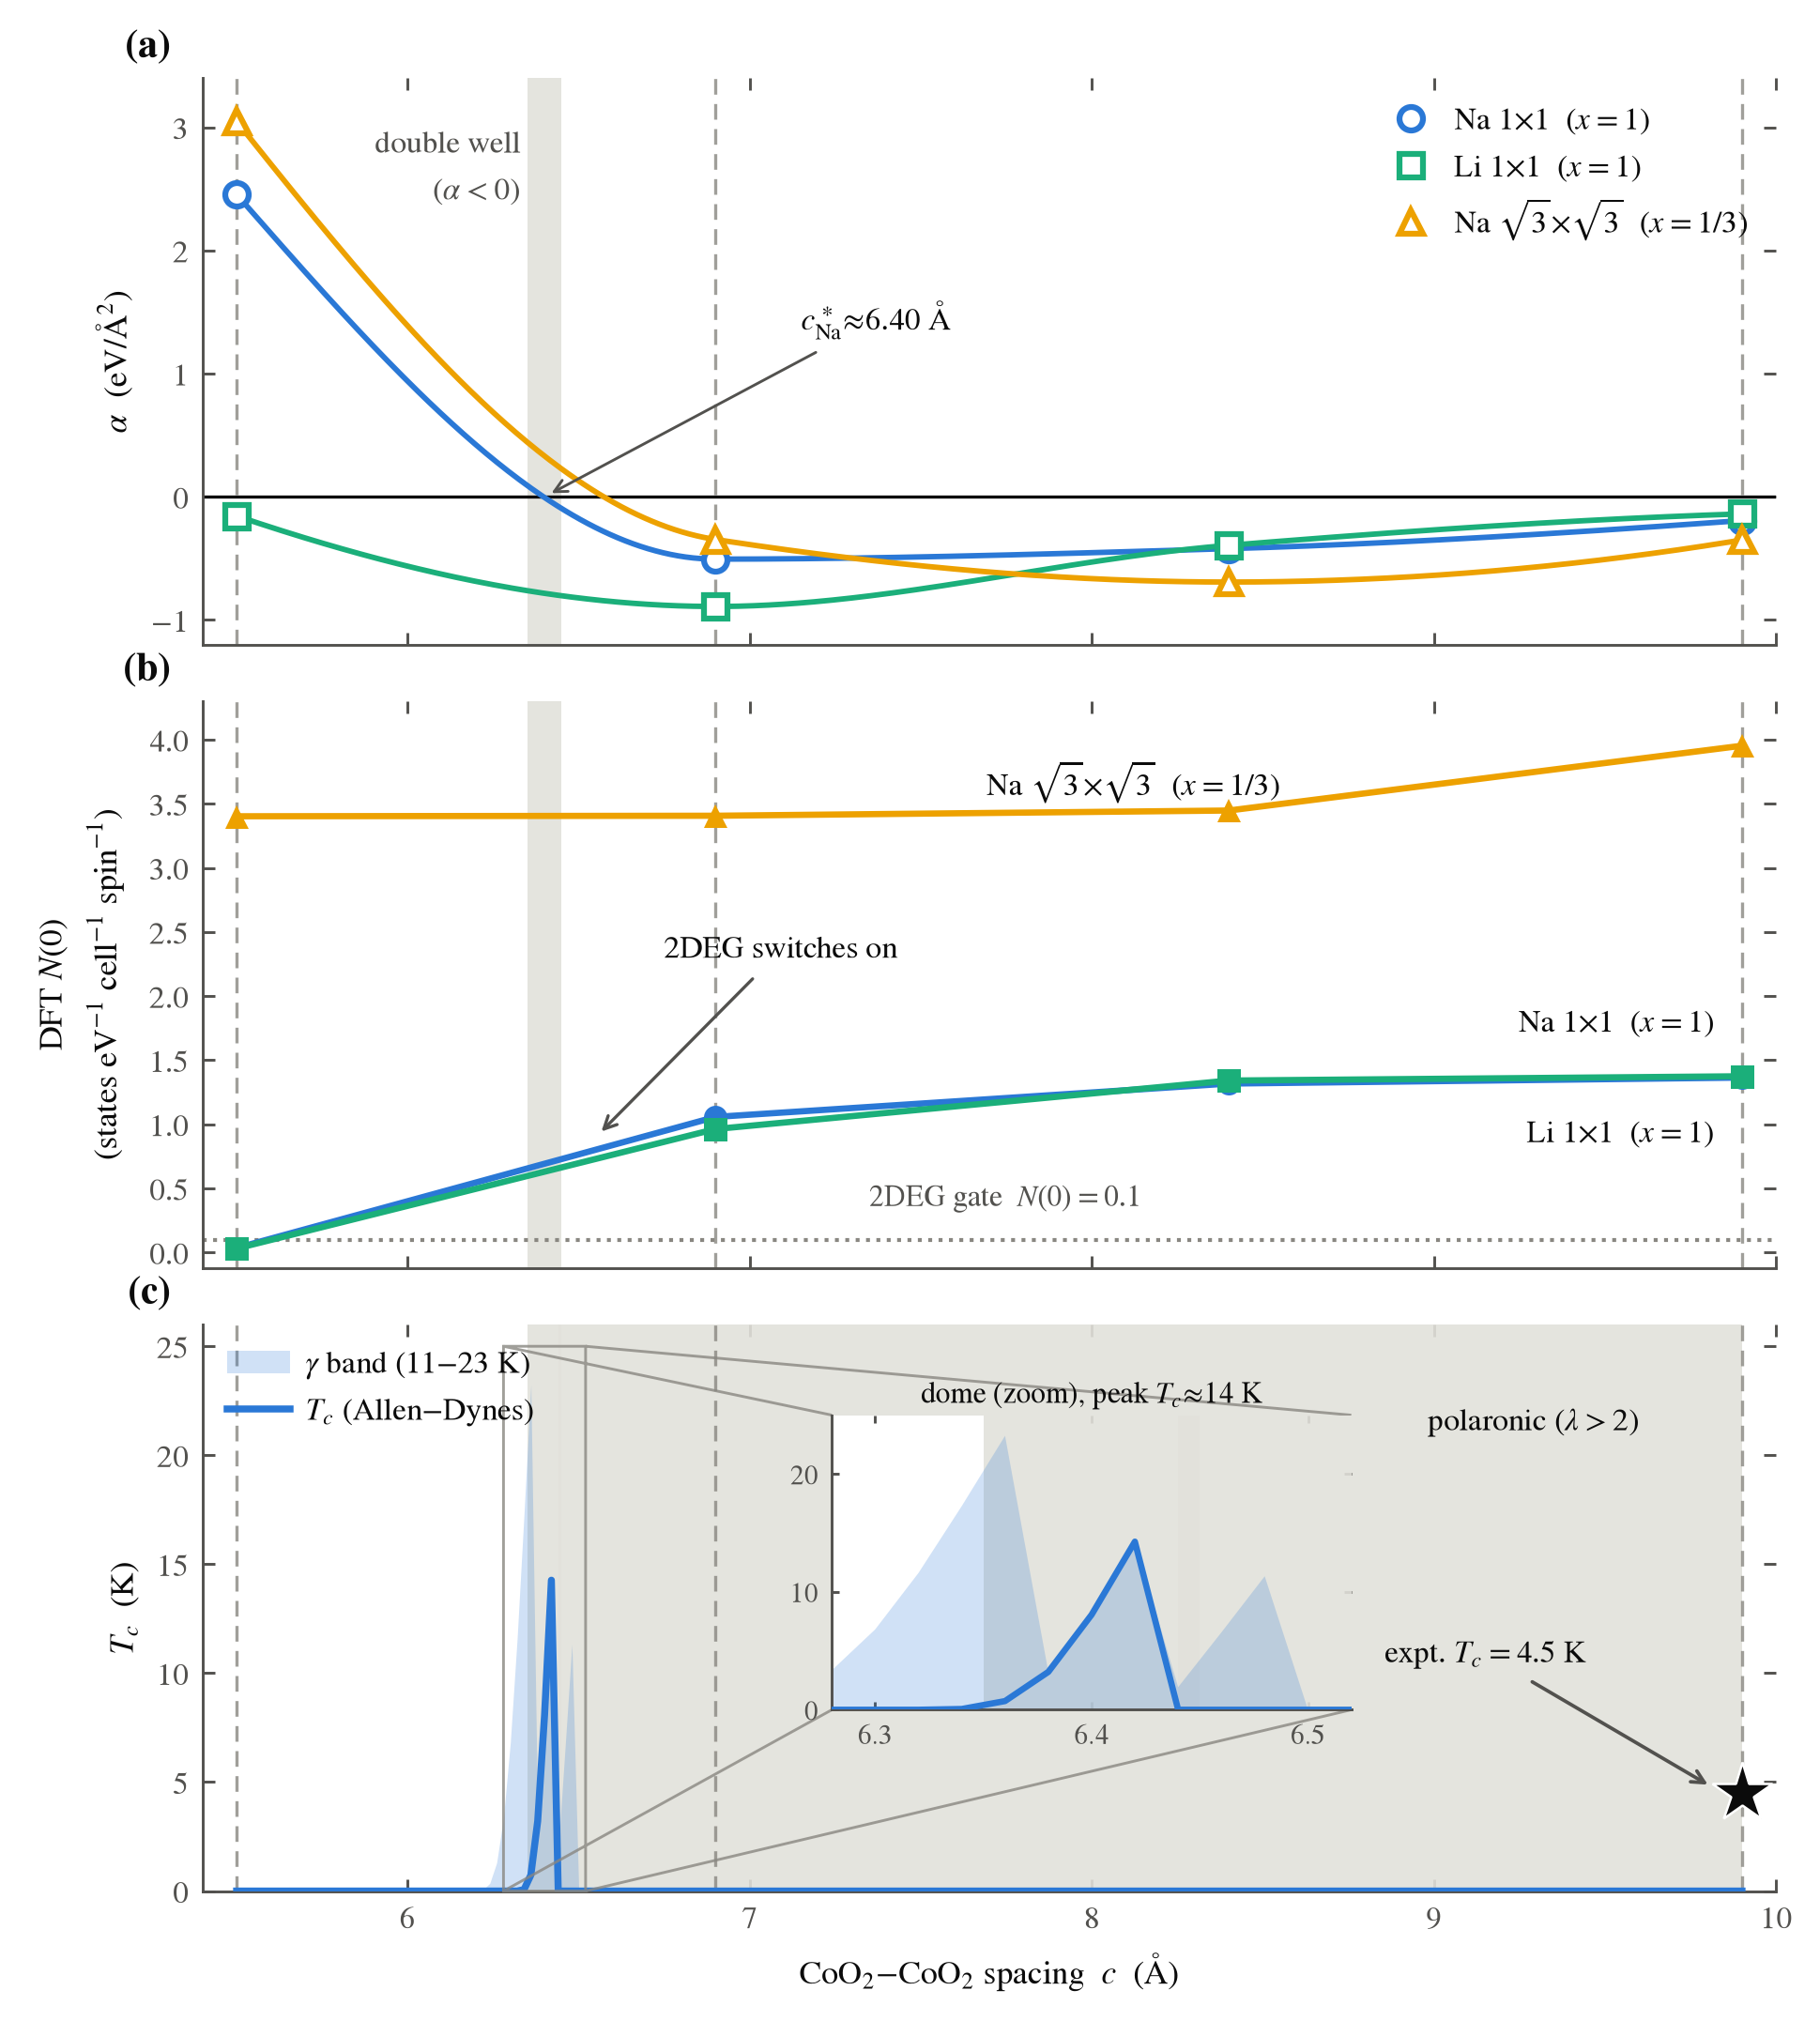
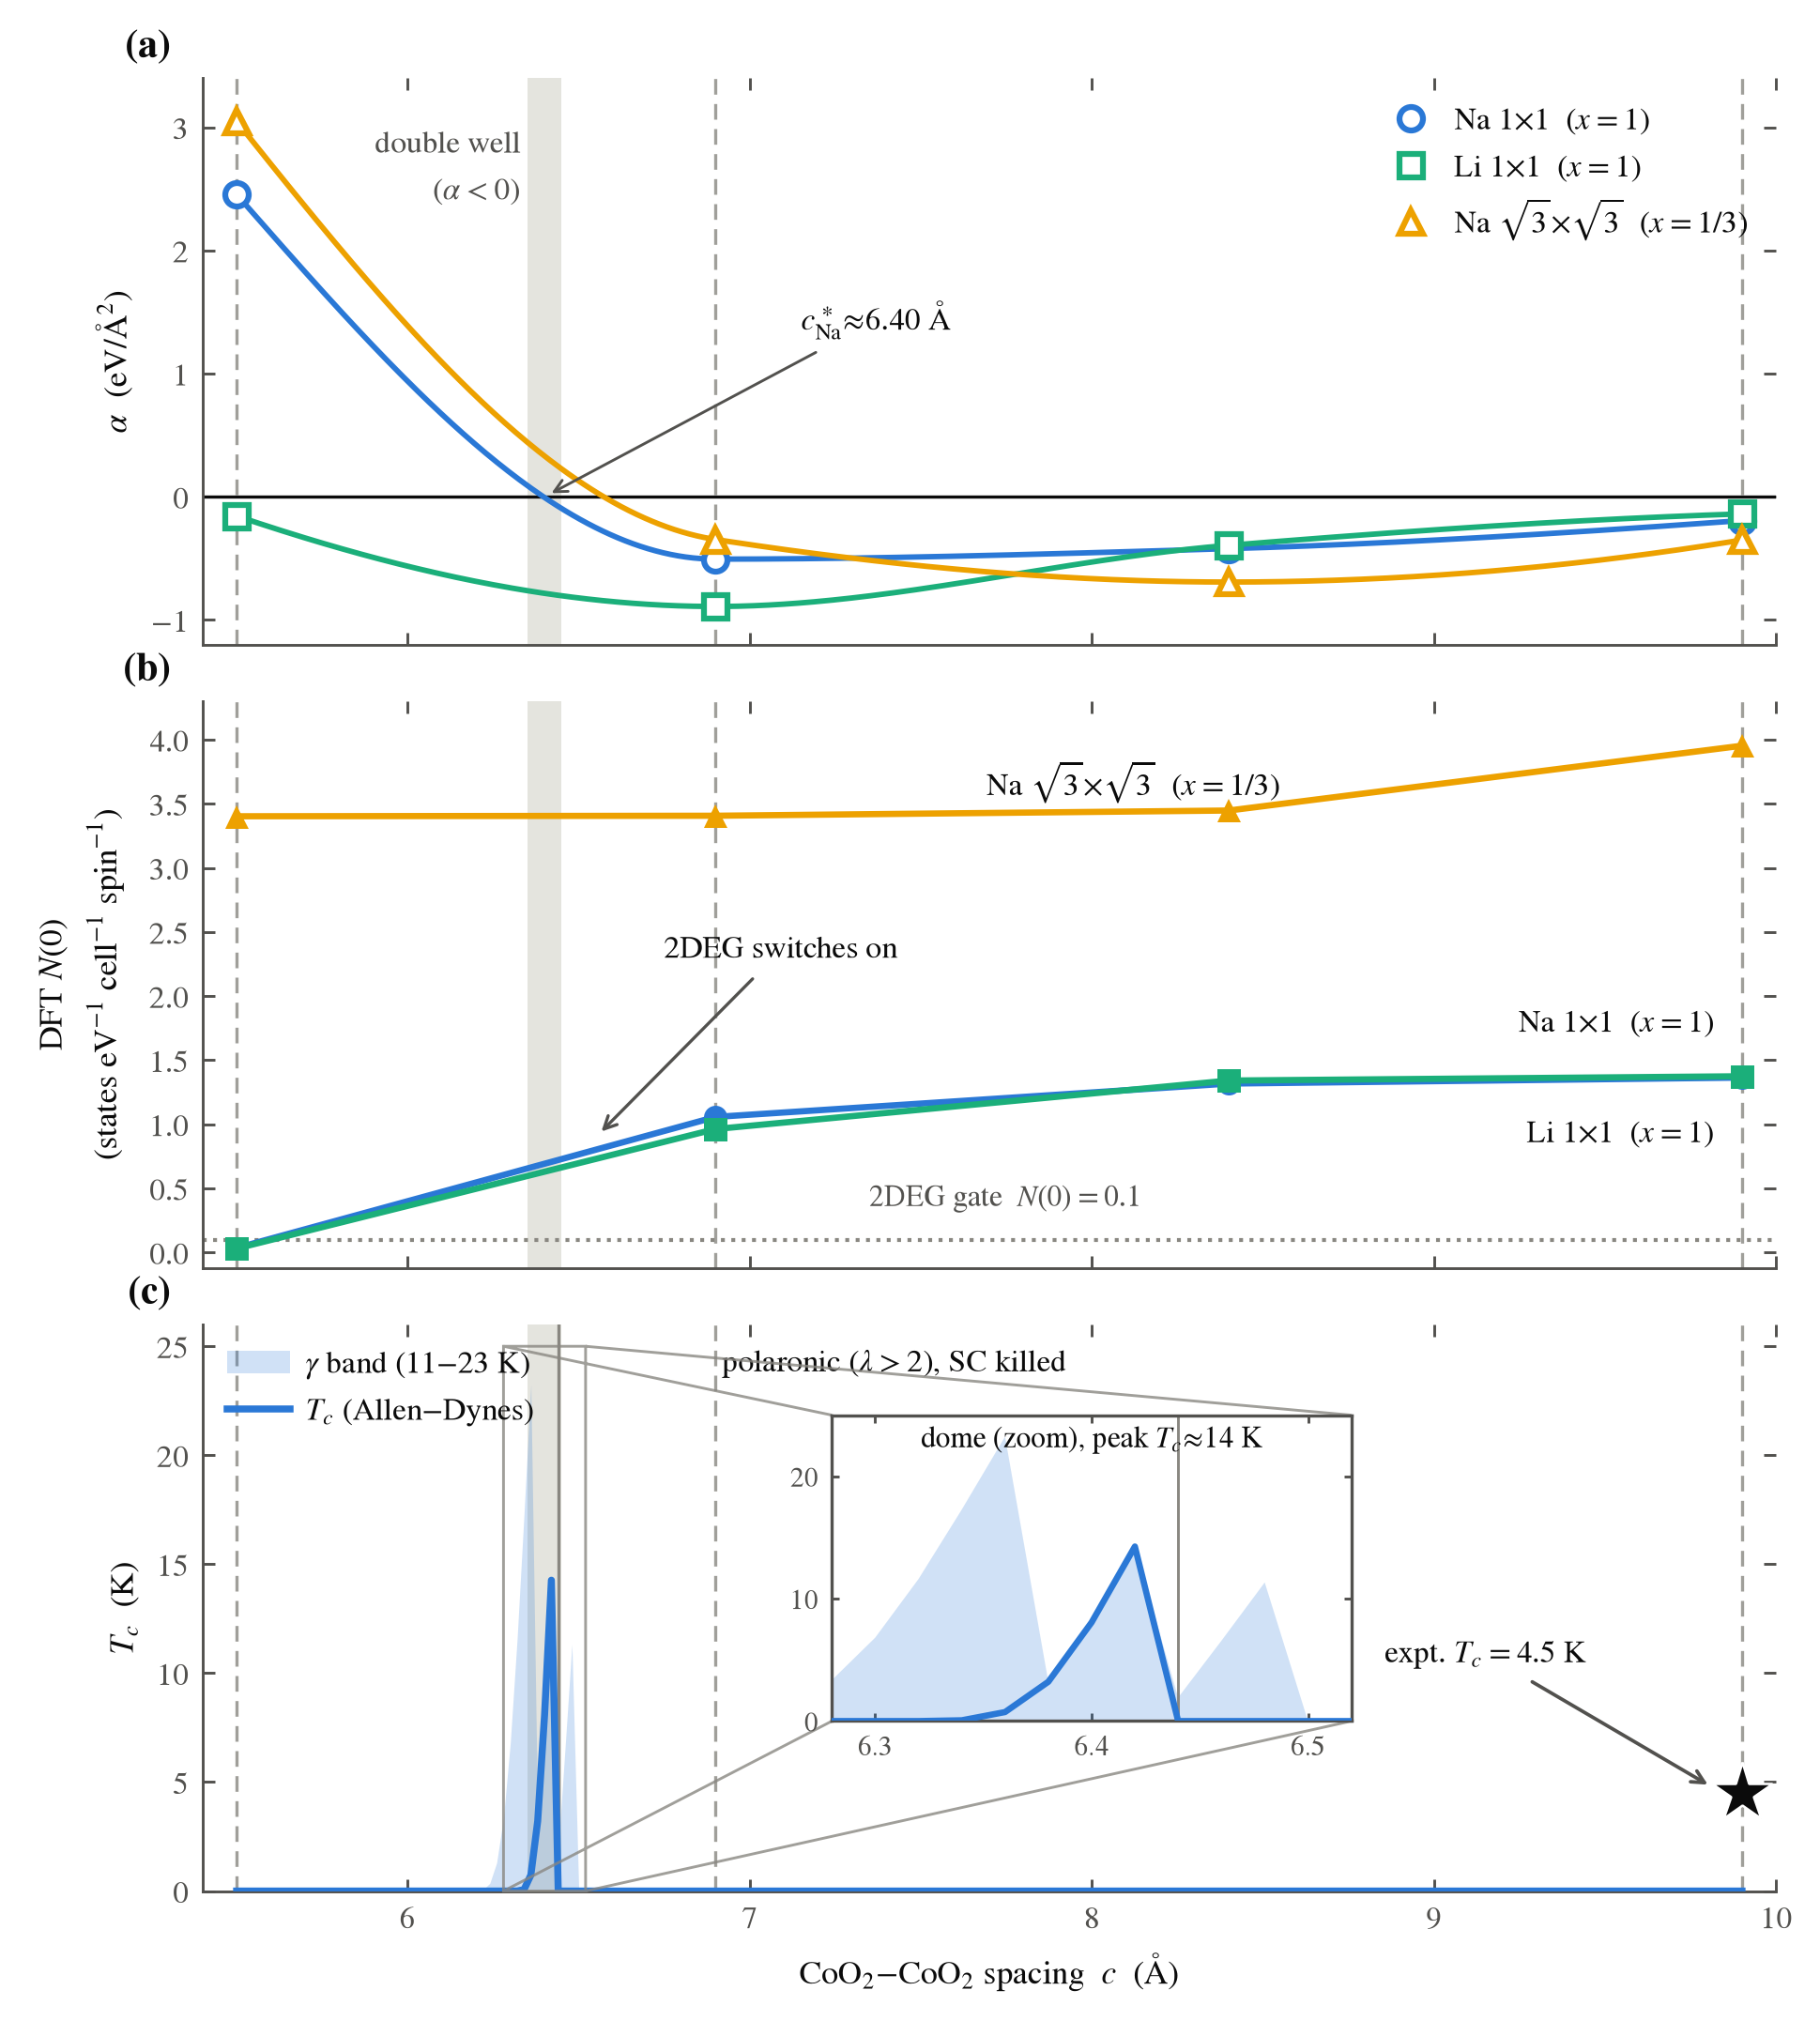
figure polish: clean white panels, opaque framed insets, no occlusion; captions updated

Changed region(s): [[0.3094, 0.6535, 0.9593, 0.9336]]

diff --git a/paper/main.tex b/paper/main.tex
@@ -201,8 +201,9 @@ does not; the single-to-double-well flip survives every check we ran.
   one state per {eV} at the same spacing---the interlayer electron gas switching on.
   (c)~The Allen--Dynes superconducting temperature: a narrow dome pinned just above
   $c^{\ast}$, with the shaded band spanning the electron--phonon coupling ansatz ($11$--$23$~K)
-  and the grey region (right of the dome) where the coupling exceeds the polaron limit and
-  superconductivity is killed. The experimental anchors are the thin dashed verticals at
+  and the thin vertical line at the $\lambda=2$ crossing marking the polaron wall---everywhere
+  to its right the coupling exceeds the polaron limit and superconductivity is killed. The
+  inset magnifies the narrow dome. The experimental anchors are the thin dashed verticals at
   $5.5$, $6.9$ and $9.9$~\AA: the dry parent and monolayer hydrate (not superconducting) fall on
   the walls, and the bilayer hydrate (star, $T_c=4.5$~K) does not sit in the static
   window---the difficulty of Sec.~\ref{sec:difficulty}, resolved there by water re-binding the
@@ -215,8 +216,8 @@ does not; the single-to-double-well flip survives every check we ran.
 \label{sec:model}
 % ===========================================================================
 
-Now we make the mechanism quantitative, and it is worth saying first what is borrowed and
-what is done here. The band structure is borrowed: the {SSH}-type four-band tight-binding
+Now we make the mechanism quantitative. We separate first what is borrowed from what is
+done here. The band structure is borrowed: the {SSH}-type four-band tight-binding
 model of Radha and Lambrecht~\cite{RadhaLambrecht2021} describes the two surface bands---one
 of alkali {$sp_z$} character sitting in the gallery, one of {CoO$_2$} character---that share a
 single electron according to how their centres are split. The splitting is set by the {Bader}
@@ -249,8 +250,9 @@ $\hbar\Omega = E_2-E_0$. The dimensionless coupling is then
 \end{equation}
 with $N(0)$ taken from the density-functional calculation, not fit.
 
-The window has two walls, and each is a sentence. Close the gallery below $c^{\ast}$ and
-$N(0)\to0$: there are no carriers, so $\lambda\to0$ and there is nothing to pair. Open it too
+The window has two walls, and the physics of each is simple. Close the gallery below
+$c^{\ast}$ and $N(0)\to0$: there are no carriers, so $\lambda\to0$ and there is nothing to
+pair. Open it too
 far, or cool the sodium into one well, and the ion freezes off-centre while $\hbar\Omega$
 stays near $20$~meV; the coupling then runs up past $\lambda\approx20$, which is not strong
 superconductivity but a self-trapped polaron, and the pairing is killed. Between the two the
@@ -302,11 +304,20 @@ sliding toward a bound site against one {CoO$_2$} sheet. The curvature at the mi
 negative, $V''(0)<0$: the centred ion is not the bottom of a soft well but the top of an
 instability, an imaginary-frequency mode ($\lvert\hbar\omega\rvert\approx11i$~meV) that runs
 downhill into chemisorption. The static picture puts the one superconducting compound in the
-dead polaronic regime. This is not our artifact; it is the mechanical form of the long-standing
-result that hydration does nothing to the electronic structure beyond
-expansion~\cite{JohannesSingh2004,MarianettiKotliarCeder2004,Arita2005}. A bare expanded
-gallery is a disaster for the sodium. The cause, we will show, is that the calculation holds
-the water still, and the water does not hold still~\cite{Jalarvo2008,Lynn2003}.
+dead polaronic regime. This is not our artifact; it is the mechanical face of a result the
+electronic-structure literature settled long ago. The earliest water-inclusive calculation
+already found that hydration only makes the bands more
+two-dimensional~\cite{MarianettiKotliarCeder2004}; Johannes and Singh put the negative
+statement sharpest, that intercalated water has ``little effect $\ldots$ outside of the
+predictable effects of expansion''~\cite{JohannesSingh2004}, and the same holds for the
+mono- and bilayer hydrates alike~\cite{Arita2005}. That static null result is the foil this
+calculation answers: a bare expanded gallery is a disaster for the sodium. The cause, we will
+show, is that these calculations hold the water still, and the water does not hold
+still~\cite{Jalarvo2008}. The one earlier hint that the water's \emph{motion}, and not its
+static presence, might matter came in a single sentence of Lynn and co-workers, who
+noted---by analogy to {MgB$_2$}---that anharmonic motion of the hydrogen and oxygen ions
+might enhance the superconductivity~\cite{Lynn2003}; it was never developed into a mechanism,
+and developing it is the business of this paper.
 
 So we put the water in. We built the bilayer solvation cage that neutron
 diffraction~\cite{Jorgensen2003,Lynn2003} places around the sodium---four rigid gas-phase
@@ -376,11 +387,9 @@ dynamical one.
 \label{sec:consequences}
 % ===========================================================================
 
-A mechanism is worth only what it forbids and predicts. Table~\ref{tab:score} lays the
-picture against the experimental record fact by fact; here we take the consequences one at a
-time.
+Table~\ref{tab:score} lays the picture against the experimental record fact by fact. Here we
+take the consequences one at a time, and each is written so that it can fail.
 
-\paragraph{Why lithium never superconducts.}
 Lithium cobaltate is the same structure with a smaller ion, and it has never been made to
 superconduct. Our picture requires it. Two things go against lithium at once. Its well crosses
 into the double-well regime only at the smallest spacing in our dataset, so we have only an
@@ -391,7 +400,7 @@ paraelectric, dynamically centred despite the negative $\alpha$, and a centred i
 ion with no soft anharmonic mode to offer. Lithium fails on the glue, and it fails for the
 plain reason that it is light.
 
-\paragraph{The magnetic strip and the {NMR} contradiction.}
+The gas brings a magnetic phase with it, and that phase settles an old contradiction.
 Right where the gas first condenses, the gallery band is narrow and its density of states is
 high, and a narrow band with a high density of states is a {Stoner} magnet. The
 Radha--Lambrecht surface calculation already finds this polarized gallery
@@ -410,7 +419,6 @@ Johannes~\cite{MazinJohannes2005} are consistent with the muon null~\cite{Higemo
 we do not need the chiral $d+id$ scenario~\cite{Kiesel2013} to fit the record, though our data
 do not exclude it.
 
-\paragraph{Spin--orbit coupling.}
 One might worry that spin--orbit coupling selects or mixes the pairing. It does not, at any
 level that matters here. The gallery state is sodium-derived, with only a few percent cobalt
 weight, so its effective on-band spin--orbit scale is a couple of {meV}; the {Rashba}
@@ -420,7 +428,8 @@ the gap it induces is at the sub-percent level. On the average centrosymmetric s
 up and down sectors carry opposite {Rashba} fields and largely cancel. Spin--orbit coupling
 is a small correction to the spin response, not a term in the pairing.
 
-\paragraph{A probe-dependent valence.}
+The gallery gas leaves a fingerprint on the sodium valence that two kinds of probe should
+read differently.
 If the sodium keeps a fraction $q$ of its electron in the gallery rather than giving it to
 the cobalt, then a site-specific valence probe---the cobalt {$L$}-edge or {NQR}---and a
 charge-counting probe---redox titration of the whole crystal---should disagree, and only when
@@ -433,9 +442,8 @@ the large valence offset seen in these materials~\cite{Milne2004}, which needs a
 reservoir such as oxonium and is several times larger; ours is the small, gallery-specific piece
 alone.
 
-\paragraph{Related systems: three tests we have run, one we have not.}
-The picture points beyond this one compound, and three of its predictions we have now put to
-the calculation.
+The picture points beyond this one compound. Three of its predictions we have now put to the
+calculation, and a fourth we leave for later.
 \emph{Gating.} A {LiCoO$_2$} thin film in which the carrier density is set electrostatically
 rather than chemically should show the gallery turn-on without the disadvantage of the light
 frozen ion. We added carriers to the anhydrous ($5.5$~\AA) lithium cell by a compensating
@@ -459,10 +467,7 @@ are the {Co}\,$3d$--{Se}\,$4p$ network, and the ionic sodium of its {Na$_2$O} ga
 above the Fermi level, with no sodium-derived band there. {Na$_2$CoSe$_2$O} superconducts
 through its cobalt network, not the gallery, and is a clean negative control: same {CoO$_2$}-like
 sheet, no gallery gas, superconductivity by another route.
-Finally, the layered nitride superconductor {Li$_x$ZrNCl} deserves re-analysis in the same
-language, as a gallery whose carrier density and interlayer mode may be doing together what they
-do here; that one we label a prediction, not yet computed. Each is one experiment, and each is
-stated so it can fail.
+Each is one experiment, and each is stated so it can fail.
 
 % ---- FIG 4: spin ----
 \begin{figure}[t]

diff --git a/paper/figures/fig2.py b/paper/figures/fig2.py
@@ -26,7 +26,8 @@ CG = np.linspace(5.5, 9.9, 400)
 
 # Aesthetic-sobriety palette: colour only on the data series (curves/markers);
 # every decorative element is neutral grey/black.
-C_SHADE = "#e2e1db"              # light-grey fill (SC window, polaronic zone)
+C_SHADE = "#e2e1db"              # light-grey fill (narrow SC-window band)
+C_SHADE_LT = "#f1f0eb"           # very light grey (large polaronic region)
 C_ANN = S.C_INK                  # annotation text: black
 C_ANN2 = S.C_SEC                 # secondary annotation text: ~40% grey
 
@@ -106,11 +107,13 @@ def draw_dome(ax, lw_line=1.8, band_lab=None, line_lab=None):
 
 draw_dome(axC, band_lab=r"$\gamma$ band (11$-$23 K)",
           line_lab=r"$T_c$ (Allen$-$Dynes)")
-# polaronic region: lambda > 2 -> SC killed  (neutral light-grey fill)
-axC.axvspan(LAM_C, 9.9, facecolor=C_SHADE, edgecolor="none", alpha=0.9,
-            zorder=1)
-axC.text(9.6, 21.5, r"polaronic ($\lambda>2$)",
-         ha="right", va="center", fontsize=8, color=C_ANN)
+# polaronic wall: lambda > 2 -> SC killed. No area fill (a fill covering
+# three-quarters of the panel reads as a bad background, not a region); the
+# wall is a thin grey boundary line at the lambda=2 crossing, labelled in
+# clear space above the inset.
+axC.axvline(LAM_C, color=S.C_MUT, lw=0.8, zorder=1)
+axC.text(6.92, 24.2, r"polaronic ($\lambda>2$), SC killed", fontsize=8,
+         color=C_ANN, ha="left", va="center")
 shade_window(axC)
 anchors(axC, star=True)
 # experimental SC anchor: distinct star marker at 9.9 A, Tc = 4.5 K (black)
@@ -128,22 +131,28 @@ S.panel_label(axC, "c")
 
 # --- zoom inset: the narrow SC dome is otherwise a hairline ---
 # placed over the (data-free) polaronic dead zone, right of the real dome
-# spike, with an opaque white background so the hatch never shows through.
-axz = axC.inset_axes([0.40, 0.32, 0.33, 0.52])
+# spike. Clean-inset rules: fully opaque white background, a complete square
+# frame on all four sides, drawn ABOVE the panel shading, and NO internal
+# shading (the parent's grey bands would only clutter the zoom); the lambda=2
+# wall is a single thin grey line, as in the parent.
+axz = axC.inset_axes([0.40, 0.30, 0.33, 0.54])
 axz.set_facecolor("white")
-axz.set_zorder(5)
+axz.set_zorder(6)
 axz.patch.set_alpha(1.0)
 draw_dome(axz, lw_line=1.6)
-axz.axvspan(LAM_C, 6.6, facecolor=C_SHADE, edgecolor="none", alpha=0.9)
-axz.axvspan(SC_LO, SC_HI, color=C_SHADE, alpha=0.9, lw=0)
+axz.axvline(LAM_C, color=S.C_MUT, lw=0.7)
 axz.set_xlim(6.28, 6.52)
 axz.set_ylim(0, 25)
-axz.set_title(r"dome (zoom), peak $T_c\!\approx\!14$ K", fontsize=7.5, pad=3)
+axz.text(0.5, 0.965, r"dome (zoom), peak $T_c\!\approx\!14$ K",
+         transform=axz.transAxes, ha="center", va="top", fontsize=7.5,
+         color=C_ANN)
 axz.tick_params(labelsize=7, length=2)
 axz.set_xticks([6.3, 6.4, 6.5])
 axz.set_yticks([0, 10, 20])
-for s in ("top", "right"):
-    axz.spines[s].set_visible(False)
+for s in axz.spines.values():           # full square border
+    s.set_visible(True)
+    s.set_color(S.C_SEC)
+    s.set_linewidth(0.8)
 axC.indicate_inset_zoom(axz, edgecolor=S.C_MUT, lw=0.7, alpha=0.8)
 
 for ax in axes:

diff --git a/paper/figures/fig5.py b/paper/figures/fig5.py
@@ -20,8 +20,9 @@ fits = S.load_well_fits()
 
 fig, ax = plt.subplots(figsize=(3.4, 3.5))
 
-# quantum-paraelectric (soft-mode) window: omega < 1 meV  (neutral shading)
-ax.axhspan(1e-3, 1.0, color="#e2e1db", alpha=0.9, lw=0, zorder=0)
+# quantum-paraelectric (soft-mode) window: omega < 1 meV  (very light neutral
+# shading with a thin dashed boundary line)
+ax.axhspan(1e-3, 1.0, color="#f1f0eb", lw=0, zorder=0)
 ax.axhline(1.0, color=S.C_MUT, lw=0.7, ls=(0, (4, 3)), alpha=0.8, zorder=1)
 ax.text(5.42, 0.0068, "quantum-paraelectric\n(soft-mode) window", ha="left",
         va="bottom", fontsize=7.6, color=S.C_SEC)
@@ -42,16 +43,29 @@ ax.legend(loc="upper right", handletextpad=0.4, fontsize=7.6)
 S.thin_spines(ax)
 
 # ---------------- inset: levels in the 6.9 A Na double well -------------
-# centre-right, dropped below the upper-right legend; opaque white background
-# masks the window shading beneath it.
+# centre-right, dropped below the upper-right legend. Clean-inset rules: a
+# padded opaque white card behind the WHOLE inset (axes + tick labels + axis
+# labels + title, so the window shading never shows through anywhere), plus a
+# complete square frame on the inset itself.
 r = fits[(fits.element == "Na") & (fits.cell == "1x1") & (fits.c == 6.9)].iloc[0]
 lv = qw[(qw.element == "Na") & (qw.cell == "1x1") & (qw.c == 6.9)
         & (qw.mass == "Na")].iloc[0]
 E0, E1, E2 = lv["E0_meV"], lv["E1_meV"], lv["E2_meV"]
 
-axi = ax.inset_axes([0.45, 0.37, 0.50, 0.37])
+import matplotlib.patches as mpatches
+# The card sits in the data-free pocket below the legend and above the
+# low-lying (c >= 7.5 A) curve segments; verified against the log-scale
+# curve positions so NO data point or curve segment is occluded.
+card = mpatches.FancyBboxPatch(
+    (0.475, 0.365), 0.515, 0.435, transform=ax.transAxes,
+    boxstyle="square,pad=0", facecolor="white", edgecolor="none",
+    zorder=5)
+ax.add_patch(card)
+
+axi = ax.inset_axes([0.565, 0.43, 0.41, 0.315])
 axi.set_facecolor("white")
 axi.patch.set_alpha(1.0)
+axi.set_zorder(6)
 dd = np.linspace(-0.95, 0.95, 300)
 V = S.vpoly(dd, r["a_q"], r["b_q"], r["g_q"]) * 1e3
 axi.plot(dd, V, color=S.C_INK, lw=1.1, zorder=3)
@@ -65,7 +79,7 @@ def level(E, col, lab, lw=1.3):
     else:
         x0, x1 = -0.2, 0.2
     axi.plot([x0, x1], [E, E], color=col, lw=lw, zorder=4)
-    axi.text(0.98, E, lab, transform=axi.get_yaxis_transform(), ha="right",
+    axi.text(0.94, E, lab, transform=axi.get_yaxis_transform(), ha="right",
              va="bottom", fontsize=7, color=S.C_INK)
 
 
@@ -77,8 +91,10 @@ axi.tick_params(labelsize=6.5, length=2)
 axi.set_xlabel(r"$\delta$ (Å)", fontsize=7, labelpad=1)
 axi.set_ylabel("meV", fontsize=7, labelpad=1)
 axi.set_title(r"$c=6.9$ Å Na double well", fontsize=7, pad=3)
-for s in ("top", "right"):
-    axi.spines[s].set_visible(False)
+for s in axi.spines.values():           # full square border
+    s.set_visible(True)
+    s.set_color(S.C_SEC)
+    s.set_linewidth(0.8)
 
 fig.subplots_adjust(left=0.155, right=0.97, top=0.97, bottom=0.135)
 S.save(fig, "fig5")